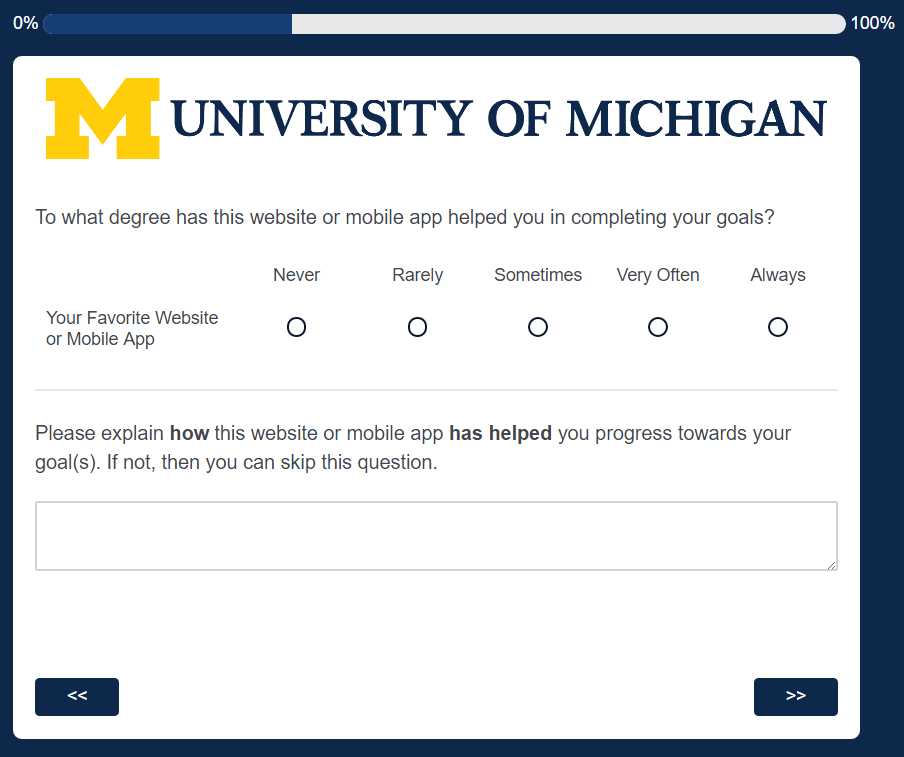
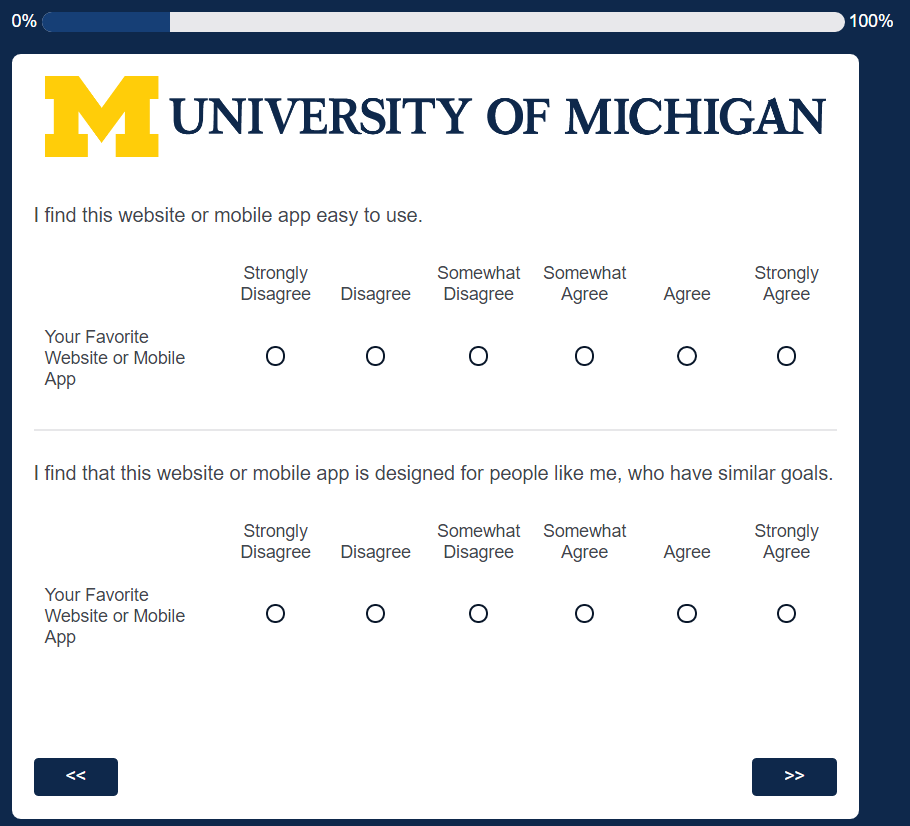
changed survey images for sociology survey and added final prototype screens for game track app

diff --git a/gametrackapp.html b/gametrackapp.html
@@ -249,11 +249,11 @@
                     <div class="smallpadding"></div>
                     <p>With that feedback in mind and another round of feedback, I created a hi-fi prototype that I will continue to improve on.</p>
                     <div class="smallpadding"></div>
-                    <img class="gametrackimg9" src='media/hificollage.jpg' alt='backlog image 9'/>
+                    <img class="gametrackimg9" src='media/hificollage1.jpg' alt='backlog image 9'/>
                     <div class="extrapadding"></div>
                     <h4>After careful consideration and user feedback, I decided to change the colors of my app to black, white, and two shades of gray.</h4>
                     <div class="extrapadding"></div>
-                    <img class="gametrackimg10" src='media/hificollagefinal.png' alt='backlog image 10'/>
+                    <img class="gametrackimg10" src='media/hificollage2.png' alt='backlog image 10'/>
                     <div class="padding"></div>
                     <h4>After this change, I received another round of feedback.</h4>
                     <div class="padding"></div>
@@ -269,11 +269,13 @@
                         <img class="gametrackimg13" src='media/commentimg8.png' alt='backlog image 13'/>
                         <div class="padding"></div>
                     </div>
-                    <div class="padding"></div>
-                    <button type="button" class="btn btn-info" onclick="window.open('media/YGPHifi.pdf')">Vector PDF Link</button>
-                    <button type="button" class="btn btn-warning" onclick="window.open('https://invis.io/7QA8QWWDT')">Interactive Hi-Fi Prototype</button>
                 <div class="padding"></div>
-                <h4>I am currently working on the improved version of the app. Stay tuned.</h4>
+                <h4>Here are some of the screens of my final prototype.</h4>
+                <div class="padding"></div>
+                <img class="gametrackimg14" src='media/hificollagefinal.png' alt='backlog image 14'/>
+                <div class="smallpadding"></div>
+                    <button type="button" class="btn btn-info" onclick="window.open('media/YGPHifi.pdf')">Vector PDF Link</button>
+                    <button type="button" class="btn btn-warning" onclick="window.open('https://invis.io/7QA8QWWDT')">Interactive Hi-Fi Prototype</button
                 <div class="padding"></div>
         </div>
     </div>

diff --git a/css/style.css b/css/style.css
@@ -419,7 +419,7 @@ footer.page-footer {
     width:60%;
 }
 
-.gametrackimg9,.gametrackimg10 {
+.gametrackimg9,.gametrackimg10, .gametrackimg14 {
     width:100%;
 }
 
@@ -458,16 +458,16 @@ footer.page-footer {
 
 @media (max-width: 768px) {
     .fpsUIimage,.immigrantimage,.flyerimage,.gametrackimg1,.gametrackimg2, .gametrackimg3, .gametrackflowimg,.gametrackimg4,
-    .gametrackimg5, .gametrackimg6, .gametrackimg7, .gametrackimg8, .gametrackimg9, .gametrackimg10, .gametrackimg11, .gametrackimg12, .gametrackimg13, .gameguideimg, .canimg1,.canimg2,.canimg3, .fordimg1, .fordimg2,
-    .fordimg3, .sqimg1, .sqimg2, .sqimg3, .dayspaimg, .tutorimg, .AIimg, .foodimg, .socioimg1,.socioimg2,.socioimg3,.socioimg4{
+    .gametrackimg5, .gametrackimg6, .gametrackimg7, .gametrackimg8, .gametrackimg9, .gametrackimg10, .gametrackimg11, .gametrackimg12, .gametrackimg13, .gametrackimg14, .gameguideimg, .canimg1,.canimg2,.canimg3, .fordimg1, .fordimg2,
+    .fordimg3, .sqimg1, .sqimg2, .sqimg3, .dayspaimg, .tutorimg, .AIimg, .foodimg, .socioimg1,.socioimg2,.socioimg3,.socioimg4, .socioimg5, .socioimg6{
         width:100%;
     }
 }
 
 @media (max-width: 1024px) {
     .fpsUIimage,.immigrantimage,.flyerimage, .gametrackimg1,.gametrackimg2, .gametrackimg3,.gametrackflowimg, .gametrackimg4,
-    .gametrackimg5, .gametrackimg6, .gametrackimg7, .gametrackimg8, .gametrackimg9, .gametrackimg10, .gametrackimg11, .gametrackimg12, .gametrackimg13, .gameguideimg,.canimg1,.canimg2,.canimg3,
-    .fordimg1, .fordimg2, .fordimg3, .sqimg1, .sqimg2, .sqimg3, .dayspaimg, .tutorimg, .AIimg, .foodimg, .socioimg1,.socioimg2,.socioimg3,.socioimg4 {
+    .gametrackimg5, .gametrackimg6, .gametrackimg7, .gametrackimg8, .gametrackimg9, .gametrackimg10, .gametrackimg11, .gametrackimg12, .gametrackimg13, .gametrackimg14, .gameguideimg,.canimg1,.canimg2,.canimg3,
+    .fordimg1, .fordimg2, .fordimg3, .sqimg1, .sqimg2, .sqimg3, .dayspaimg, .tutorimg, .AIimg, .foodimg, .socioimg1,.socioimg2,.socioimg3,.socioimg4, .socioimg5, .socioimg6{
         width:100%;
     }
 }

diff --git a/socioUX.html b/socioUX.html
@@ -126,6 +126,14 @@
                         <img class="socioimg4" src='media/surveyimg4.PNG' alt='survey image 4'/>
                         <div class="smallpadding"></div>
                     </div>
+                    <div class="col-xs-12">
+                        <img class="socioimg5" src='media/surveyimg5.PNG' alt='survey image 4'/>
+                        <div class="smallpadding"></div>
+                    </div>
+                    <div class="col-xs-12">
+                        <img class="socioimg6" src='media/surveyimg6.PNG' alt='survey image 4'/>
+                        <div class="smallpadding"></div>
+                    </div>
                     <p>Here is the full survey PDF file.</p>
                 <button type="button" class="btn btn-info" onclick="window.open('media/qualtricsUX.pdf')">Qualtrics Survey PDF</button>
                 <div class="smallpadding"></div>
